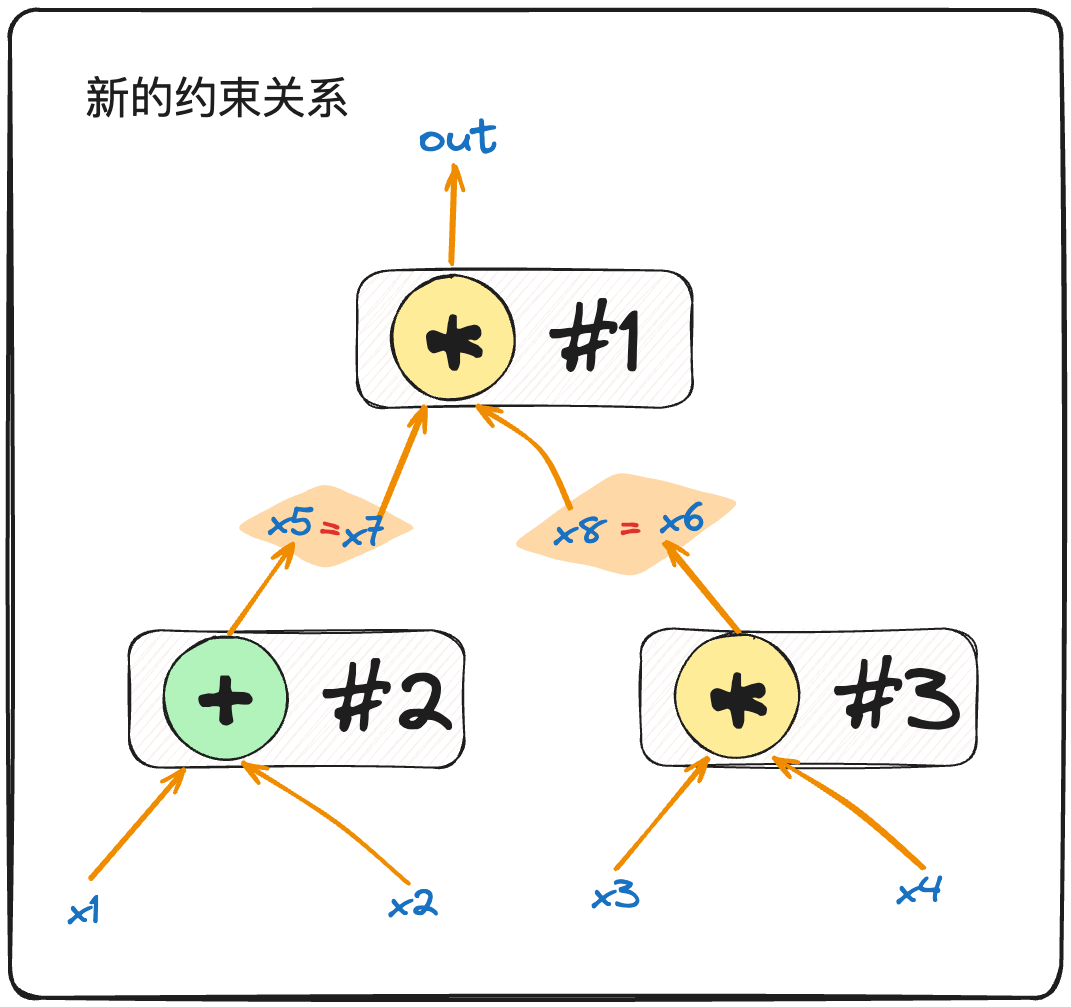
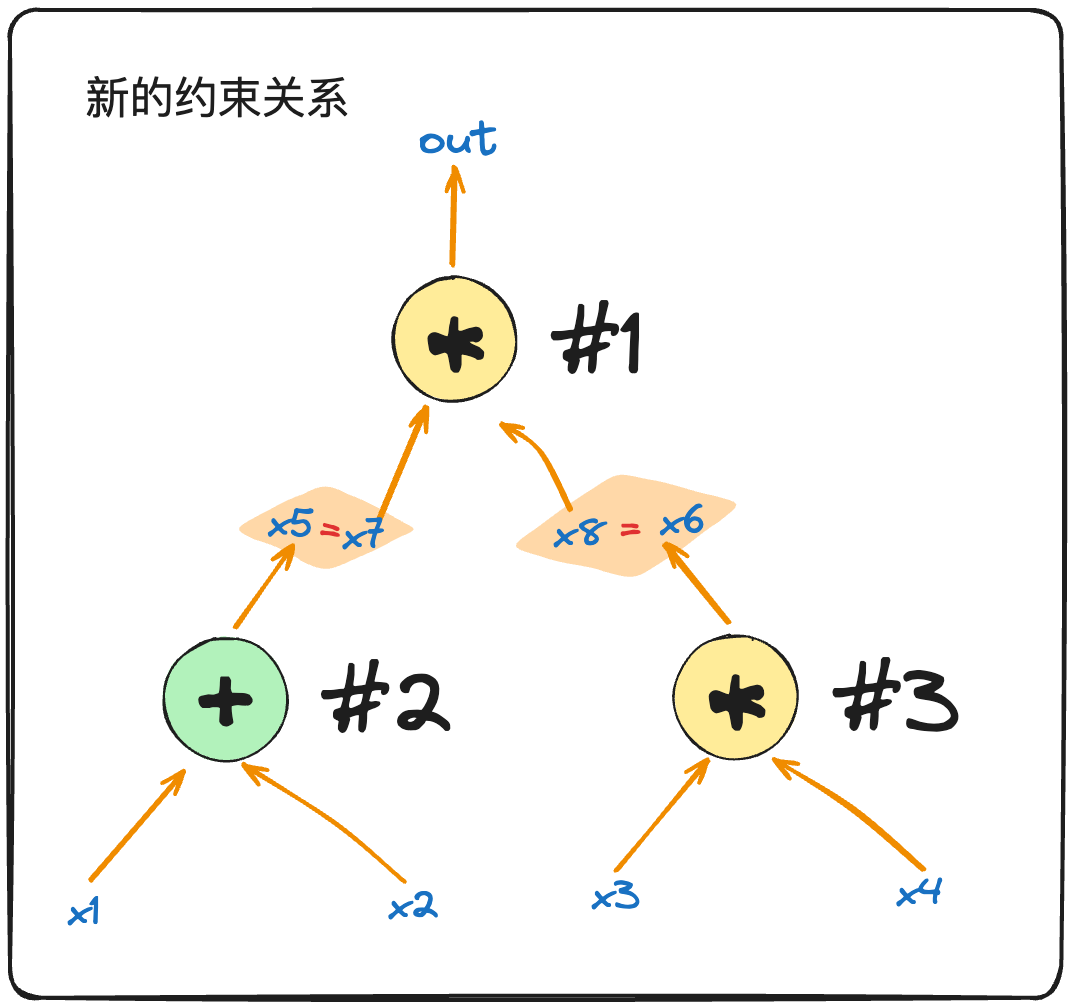
fix:images change

diff --git a/ZKP-PLONK/articles/plonk-zh/polish「1」.md b/ZKP-PLONK/articles/plonk-zh/polish「1」.md
@@ -288,11 +288,7 @@ $$
 
 两个电路的区别在于： $x_5, x_6$ 是否被接入了 `#1` 号门。
 
-<<<<<<< HEAD
-<img src="/ZKP-PLONK/images/polish「1」.md/W.png" width="40%" />
-=======
 <img src="/ZKP-PLONK/images/polish「1」.md/W.png" width="30%" />
->>>>>>> 49e1b9310d7fa5e8a7cc6b0a1532b96744b64839
 
 结合上面的电路比较图和矩阵 $W$ 一起来看，如果让 Prover 直接把电路赋值填入矩阵 $W$ 中，一个「诚实的」Prover 会在 $w_(a,1)$ （表示 $i=1$ 行， $w_a$ 列，也就是在第一行第一列）和 $w_(c,2)$（表示 $i=2$ 行， $w_c$ 列，也就是在第二行第三列） 的两个位置填上相同的值；而一个「恶意的」Prover 完全可以填上不同的值。如果恶意的 Prover 在 $w_(b,1)$ 和 $w_(c,3)$ 也填入不同的值，那么实际上 Prover 证明的是上图右边的电路，而非是和 Verifier 共识过的电路(左边)，「恶意的」Prover 填写不同值的情况：
 
@@ -312,11 +308,7 @@ $$
 
 这就需要一类新的约束——「拷贝约束」，即 Copy Constraint。Plonk 采用「置换证明」保证矩阵 $W$ 中多个位置上的值满足拷贝关系。我们继续用上面这个电路图的案例来说明其基本思路：
 
-<<<<<<< HEAD
-<img src="/ZKP-PLONK/images/polish「1」.md/W.png" width="40%" />
-=======
 <img src="/ZKP-PLONK/images/polish「1」.md/W.png" width="30%" />
->>>>>>> 49e1b9310d7fa5e8a7cc6b0a1532b96744b64839
 
 设想我们把 $W$ 表格中的所有位置索引排成一个向量：
 
@@ -352,11 +344,7 @@ $$
 
 **那么如何描述电路赋值表格中的交换操作呢？** 我们只需要记录 $\vec{\sigma}$ 即可，记录了变量在交换操作后的映射关系，也就是说，原先位置的变量经过交换后，被映射到新的位置。通过这种方式，我们只需要记录这个置换向量 ${\vec\sigma}$，就可以描述整个交换操作的结果。 $\vec{\sigma}$ 可以写成表格的形式，从而理解它的位置变化：
 
-<<<<<<< HEAD
-<img src="/ZKP-PLONK/images/polish「1」.md/位置矩阵T.png" width="40%" />
-=======
 <img src="/ZKP-PLONK/images/polish「1」.md/位置矩阵T.png" width="30%" />
->>>>>>> 49e1b9310d7fa5e8a7cc6b0a1532b96744b64839
 
 > 让我们来说明一下上面这个位置矩阵表示的意思：  
 
